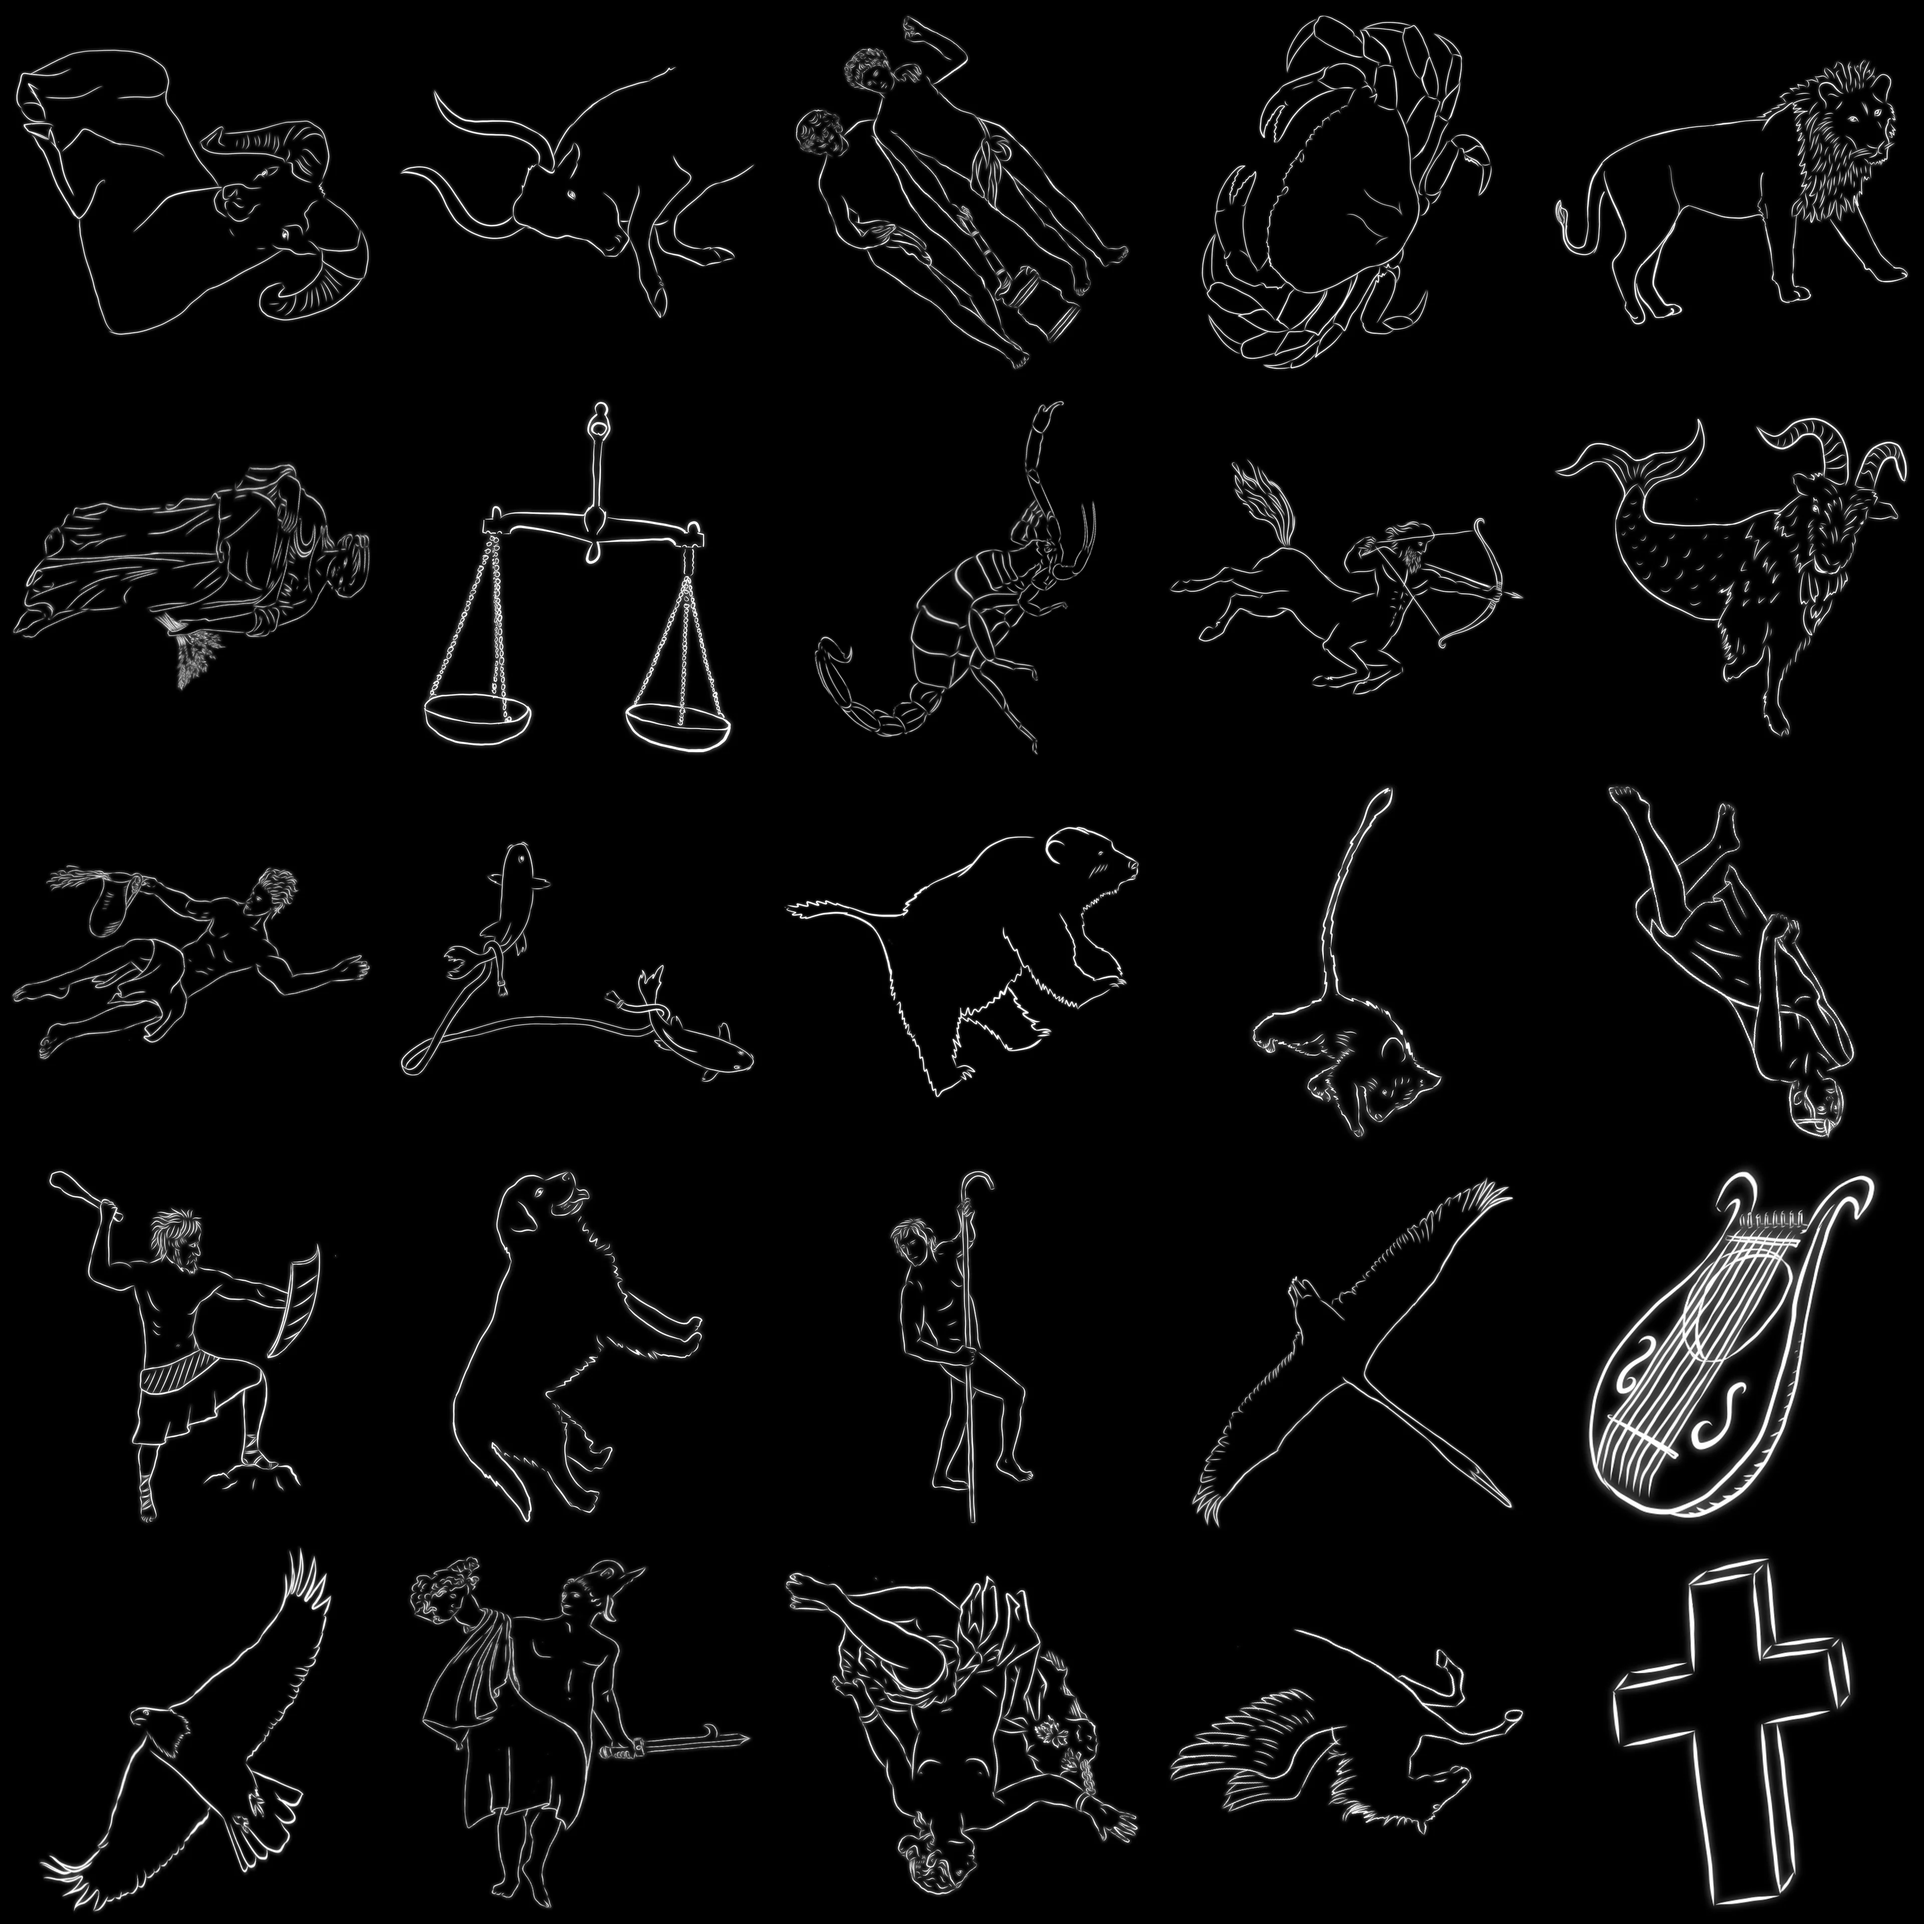
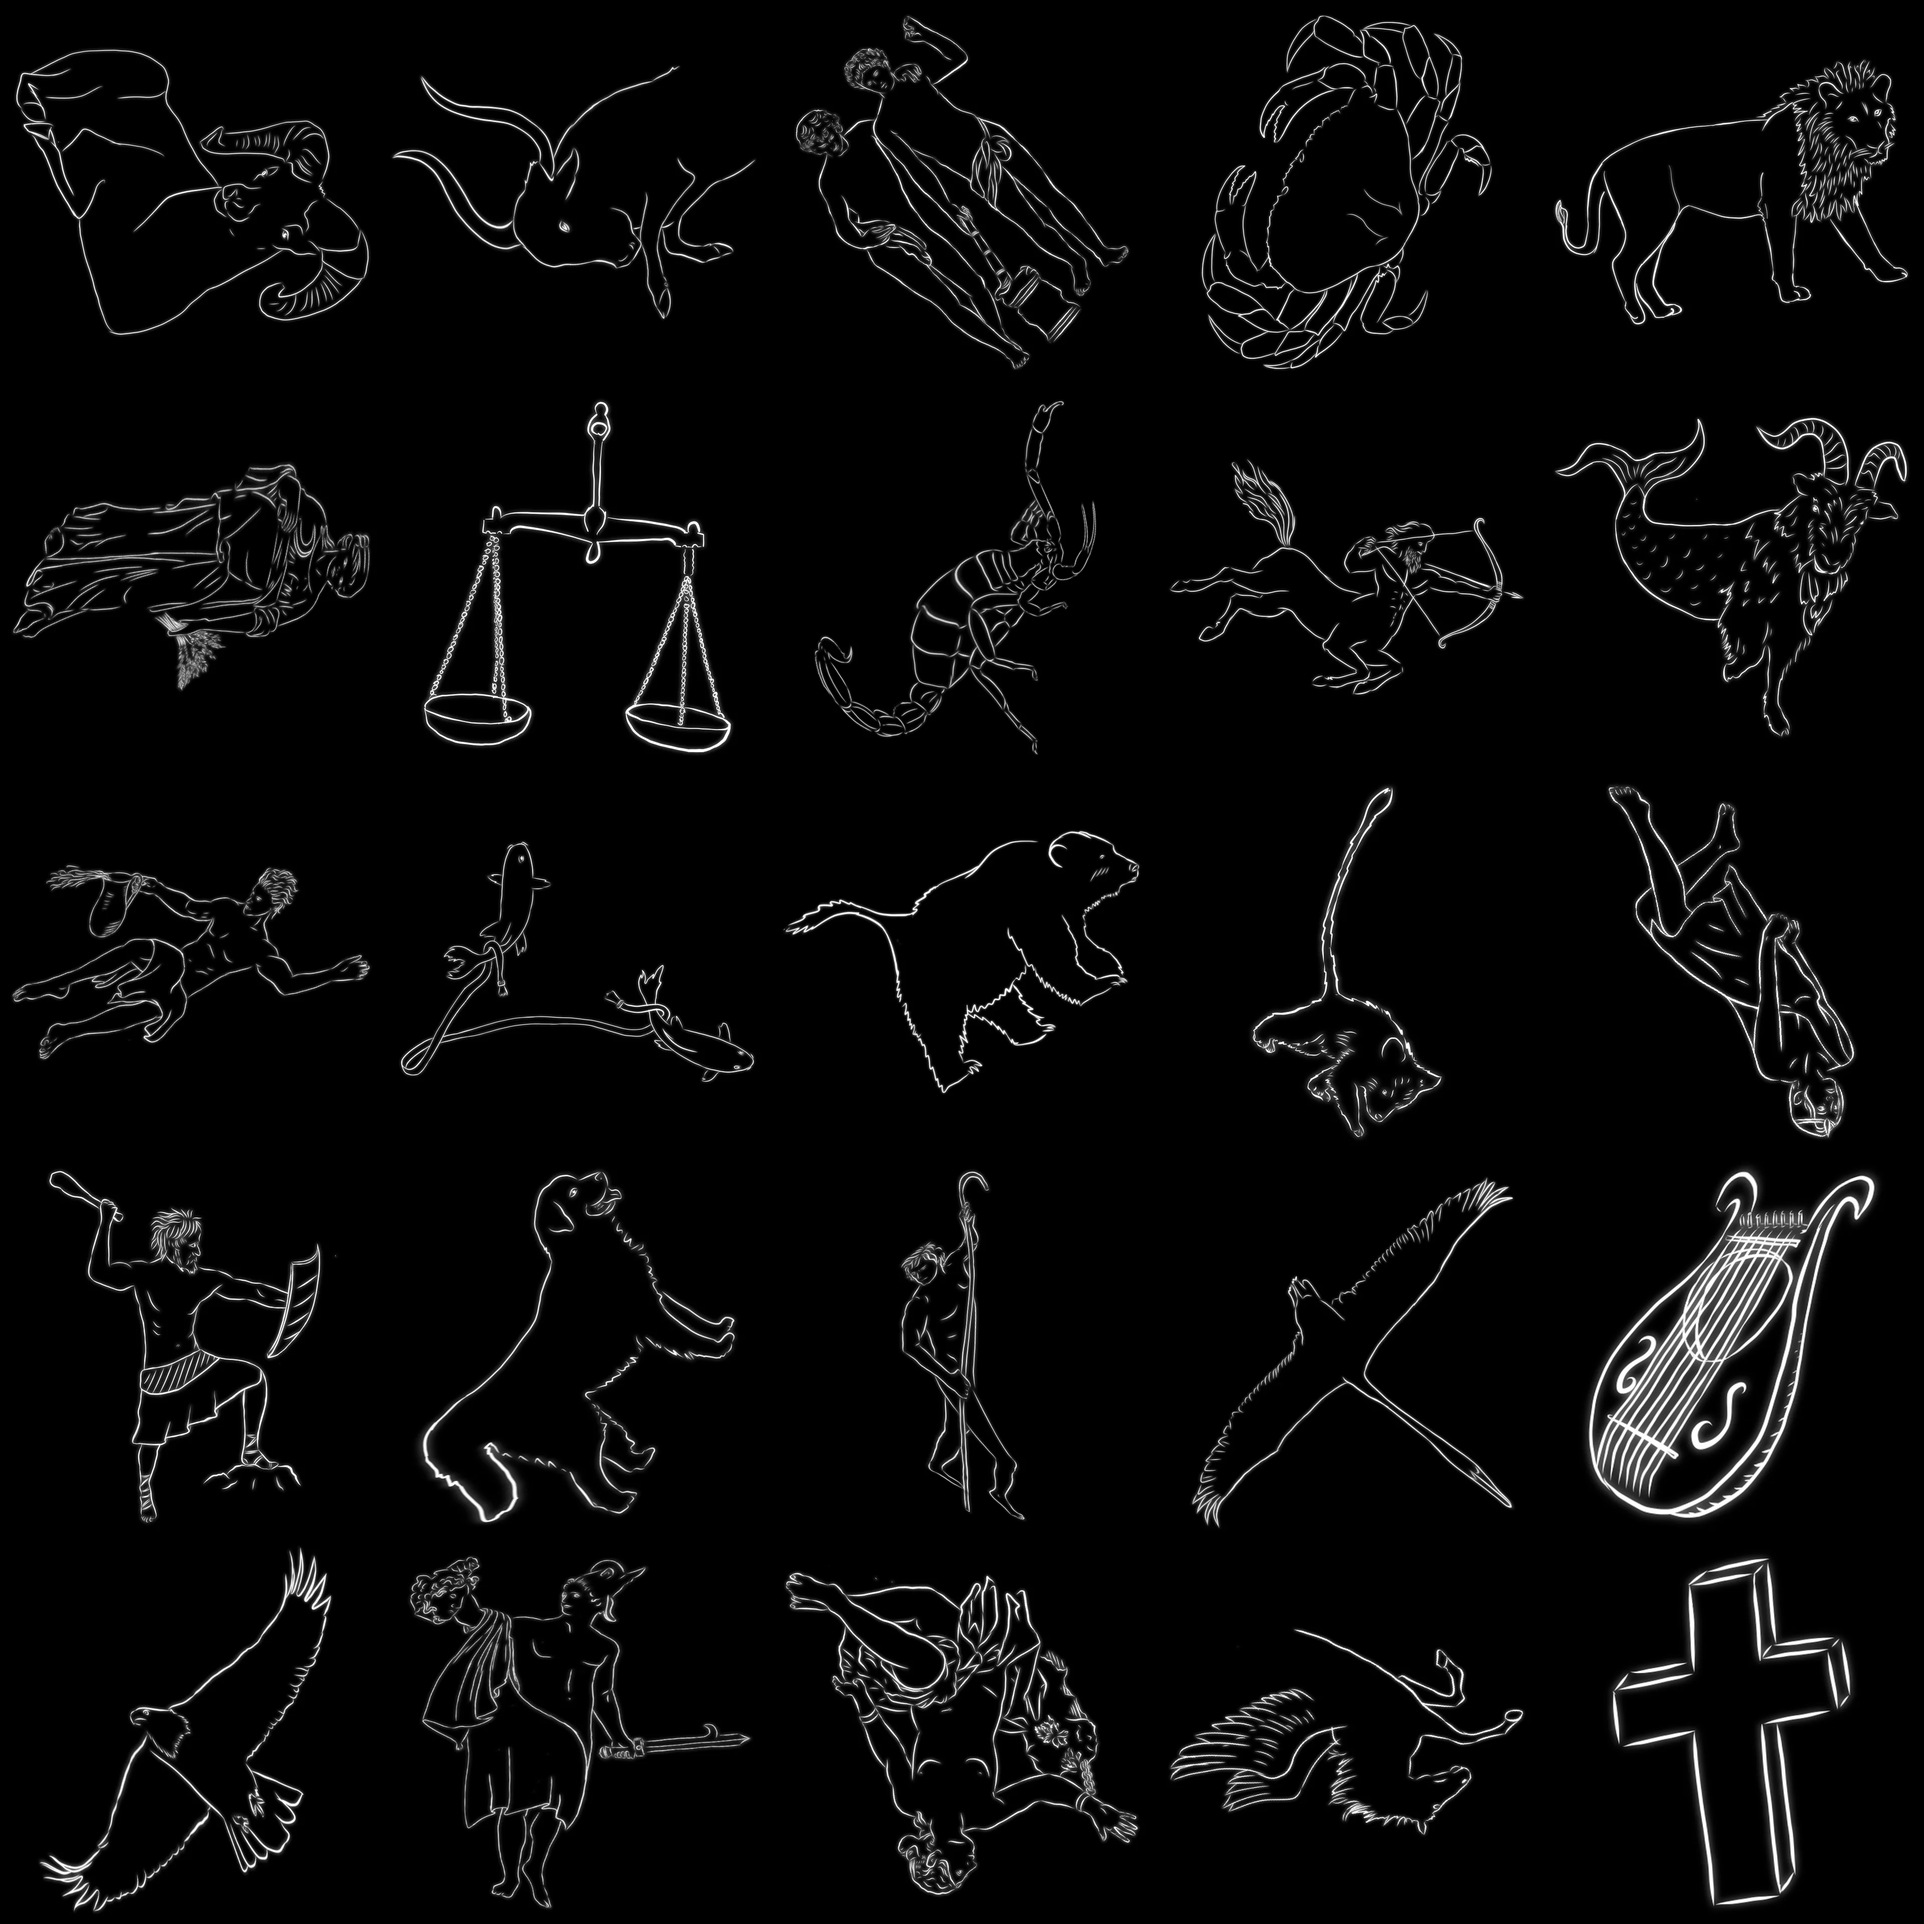
feat(sky): hand-match Taurus, Ursa Major, Canis Major and Boötes; reload once when a new worker takes over (#131)
The last four figures whose lines ended beside the drawing: Elnath at the bull's horn tip and Aldebaran at its eye; Alkaid at the bear's tail tip with Mizar and Alioth pinned; Aludra at the end of a stretched hind leg on a dog drawn with no tail; Arcturus at the herdsman's knee. Thirteen of twenty-five matched now, twelve left alone.

'perseus didn't land in 1.25' -- it had, but the page is drawn from the old worker's cache before the new worker installs and takes over, so every deploy reached a returning visitor only on the second reload. The page now reloads itself once when a new worker takes control of a page that already had one; a first visit is left alone. Two tests hold the listener, its guards, and the worker's skipWaiting and claim.

diff --git a/site/src/data/figures.js b/site/src/data/figures.js
@@ -18,4 +18,4 @@
 // Artwork: James Hedberg (CUNY-CCNY), CC BY 4.0.
 export const FIGURE_TILE = 768;
 export const FIGURE_COLS = 5;
-export const FIGURES = [{"a":"Ari","n":"Aries","i":0,"c":[[0.609548,0.609323,0.64085],[0.840153,0.331852,0.5369],[0.855481,0.47457,0.189954],[0.624876,0.752041,0.293905]]},{"a":"Tau","n":"Taurus","i":1,"c":[[0.070456,0.859002,0.585838],[0.607533,0.740666,0.604807],[0.659568,0.892455,0.078435],[0.122491,1.010791,0.059466]]},{"a":"Gem","n":"Gemini","i":2,"c":[[-0.408998,0.691031,0.577213],[-0.076036,0.903095,0.632868],[-0.106459,1.048004,0.262722],[-0.439421,0.83594,0.207067]]},{"a":"Cnc","n":"Cancer","i":3,"c":[[-0.726669,0.530032,0.621825],[-0.278863,0.856476,0.546848],[-0.436893,0.952024,0.019009],[-0.884698,0.62558,0.093986]]},{"a":"Leo","n":"Leo","i":4,"c":[[-0.951124,0.021242,0.646291],[-0.685115,0.554686,0.534228],[-0.909218,0.548046,-0.029346],[-1.175228,0.014602,0.082717]]},{"a":"Vir","n":"Virgo","i":5,"c":[[-0.777131,-0.765499,0.317088],[-0.928279,-0.003761,0.35494],[-1.01377,0.017662,-0.41756],[-0.862622,-0.744076,-0.455411]]},{"a":"Lib","n":"Libra","i":6,"c":[[-0.491927,-0.852549,-0.145956],[-0.776682,-0.632606,-0.133503],[-0.743482,-0.569641,-0.486418],[-0.458728,-0.789584,-0.498871]]},{"a":"Sco","n":"Scorpius","i":7,"c":[[0.040289,-1.061415,-0.163744],[-0.684707,-0.948618,-0.138088],[-0.649605,-0.578945,-0.771421],[0.075391,-0.691742,-0.797078]]},{"a":"Sgr","n":"Sagittarius","i":8,"c":[[0.646114,-0.969303,-0.357703],[0.07328,-0.996382,-0.189059],[-0.086223,-0.700454,-0.683325],[0.486612,-0.673374,-0.851969]]},{"a":"Cap","n":"Capricornus","i":9,"c":[[0.887475,-0.556537,-0.062794],[0.470739,-0.783712,-0.140459],[0.533606,-0.736815,-0.614967],[0.950342,-0.509639,-0.537302]]},{"a":"Aqr","n":"Aquarius","i":10,"c":[[1.085282,-0.248548,0.161614],[0.780661,-0.813419,0.213441],[0.554639,-0.746504,-0.385721],[0.859261,-0.181634,-0.437549]]},{"a":"Psc","n":"Pisces","i":11,"c":[[0.72837,0.545468,0.630214],[0.962485,-0.220649,0.657842],[1.16155,-0.187793,-0.117918],[0.927435,0.578324,-0.145546]]},{"a":"UMa","n":"Ursa Major","i":12,"c":[[-0.304622,-0.387385,0.982202],[-0.110352,0.491611,0.995506],[-0.907664,0.673527,0.619006],[-1.101935,-0.205469,0.605702]]},{"a":"UMi","n":"Ursa Minor","i":13,"c":[[0.18996,-0.162051,0.985159],[-0.079381,0.131081,1.021494],[-0.374119,-0.132407,0.962373],[-0.104777,-0.425539,0.926039]]},{"a":"Cas","n":"Cassiopeia","i":14,"c":[[0.337297,0.322571,0.971837],[0.321499,-0.11229,0.998673],[0.676879,-0.140688,0.747729],[0.692678,0.294174,0.720893]]},{"a":"Ori","n":"Orion","i":15,"c":[[-0.177642,1.002418,0.322829],[0.422743,1.000812,0.316925],[0.416805,0.988039,-0.283326],[-0.183579,0.989645,-0.277421]]},{"a":"CMa","n":"Canis Major","i":16,"c":[[-0.365301,0.941291,-0.204765],[-0.011543,0.974023,-0.192985],[0.006611,0.903002,-0.540809],[-0.347147,0.87027,-0.552589]]},{"a":"Boo","n":"Bootes","i":17,"c":[[-0.258574,-0.67661,0.809977],[-0.79453,-0.203677,0.888018],[-1.074852,-0.417973,0.261519],[-0.538896,-0.890906,0.183477]]},{"a":"Cyg","n":"Cygnus","i":18,"c":[[0.535953,-0.338664,0.842934],[0.131684,-0.637093,0.828808],[0.340736,-0.902673,0.45671],[0.745005,-0.604245,0.470836]]},{"a":"Lyr","n":"Lyra","i":19,"c":[[0.202759,-0.694822,0.626327],[0.087218,-0.784651,0.649252],[0.123318,-0.861984,0.52817],[0.238859,-0.772155,0.505245]]},{"a":"Aql","n":"Aquila","i":20,"c":[[0.580616,-0.682681,0.471756],[0.044963,-1.05086,0.398219],[0.181621,-1.122721,-0.237428],[0.717274,-0.754543,-0.163892]]},{"a":"Per","n":"Perseus","i":21,"c":[[0.171281,0.528212,0.880801],[0.587609,0.217272,0.777897],[0.792595,0.594446,0.467537],[0.376266,0.905387,0.570442]]},{"a":"And","n":"Andromeda","i":22,"c":[[0.618538,0.487248,0.695278],[0.585984,0.016034,0.995342],[0.915528,-0.24287,0.624517],[0.948082,0.228345,0.324453]]},{"a":"Peg","n":"Pegasus","i":23,"c":[[1.034344,0.038369,0.900054],[0.502619,-0.701543,0.706174],[0.717679,-0.619562,-0.196499],[1.249403,0.12035,-0.002619]]},{"a":"Cru","n":"Crux","i":24,"c":[[-0.530793,-0.133954,-0.835451],[-0.542647,-0.016721,-0.819698],[-0.448265,0.002197,-0.889457],[-0.43641,-0.115036,-0.90521]]}];
+export const FIGURES = [{"a":"Ari","n":"Aries","i":0,"c":[[0.609548,0.609323,0.64085],[0.840153,0.331852,0.5369],[0.855481,0.47457,0.189954],[0.624876,0.752041,0.293905]]},{"a":"Tau","n":"Taurus","i":1,"c":[[0.068854,0.860099,0.583372],[0.601945,0.742641,0.6022],[0.653594,0.893304,0.079735],[0.120503,1.010762,0.060907]]},{"a":"Gem","n":"Gemini","i":2,"c":[[-0.408998,0.691031,0.577213],[-0.076036,0.903095,0.632868],[-0.106459,1.048004,0.262722],[-0.439421,0.83594,0.207067]]},{"a":"Cnc","n":"Cancer","i":3,"c":[[-0.726669,0.530032,0.621825],[-0.278863,0.856476,0.546848],[-0.436893,0.952024,0.019009],[-0.884698,0.62558,0.093986]]},{"a":"Leo","n":"Leo","i":4,"c":[[-0.951124,0.021242,0.646291],[-0.685115,0.554686,0.534228],[-0.909218,0.548046,-0.029346],[-1.175228,0.014602,0.082717]]},{"a":"Vir","n":"Virgo","i":5,"c":[[-0.777131,-0.765499,0.317088],[-0.928279,-0.003761,0.35494],[-1.01377,0.017662,-0.41756],[-0.862622,-0.744076,-0.455411]]},{"a":"Lib","n":"Libra","i":6,"c":[[-0.491927,-0.852549,-0.145956],[-0.776682,-0.632606,-0.133503],[-0.743482,-0.569641,-0.486418],[-0.458728,-0.789584,-0.498871]]},{"a":"Sco","n":"Scorpius","i":7,"c":[[0.040289,-1.061415,-0.163744],[-0.684707,-0.948618,-0.138088],[-0.649605,-0.578945,-0.771421],[0.075391,-0.691742,-0.797078]]},{"a":"Sgr","n":"Sagittarius","i":8,"c":[[0.646114,-0.969303,-0.357703],[0.07328,-0.996382,-0.189059],[-0.086223,-0.700454,-0.683325],[0.486612,-0.673374,-0.851969]]},{"a":"Cap","n":"Capricornus","i":9,"c":[[0.887475,-0.556537,-0.062794],[0.470739,-0.783712,-0.140459],[0.533606,-0.736815,-0.614967],[0.950342,-0.509639,-0.537302]]},{"a":"Aqr","n":"Aquarius","i":10,"c":[[1.085282,-0.248548,0.161614],[0.780661,-0.813419,0.213441],[0.554639,-0.746504,-0.385721],[0.859261,-0.181634,-0.437549]]},{"a":"Psc","n":"Pisces","i":11,"c":[[0.72837,0.545468,0.630214],[0.962485,-0.220649,0.657842],[1.16155,-0.187793,-0.117918],[0.927435,0.578324,-0.145546]]},{"a":"UMa","n":"Ursa Major","i":12,"c":[[-0.298875,-0.422017,0.987747],[-0.097525,0.489009,1.001535],[-0.92389,0.677553,0.611316],[-1.12524,-0.233472,0.597528]]},{"a":"UMi","n":"Ursa Minor","i":13,"c":[[0.18996,-0.162051,0.985159],[-0.079381,0.131081,1.021494],[-0.374119,-0.132407,0.962373],[-0.104777,-0.425539,0.926039]]},{"a":"Cas","n":"Cassiopeia","i":14,"c":[[0.337297,0.322571,0.971837],[0.321499,-0.11229,0.998673],[0.676879,-0.140688,0.747729],[0.692678,0.294174,0.720893]]},{"a":"Ori","n":"Orion","i":15,"c":[[-0.177642,1.002418,0.322829],[0.422743,1.000812,0.316925],[0.416805,0.988039,-0.283326],[-0.183579,0.989645,-0.277421]]},{"a":"CMa","n":"Canis Major","i":16,"c":[[-0.394582,0.938568,-0.205807],[-0.041607,0.971227,-0.194053],[-0.023493,0.900363,-0.541107],[-0.376469,0.867704,-0.552861]]},{"a":"Boo","n":"Bootes","i":17,"c":[[-0.248623,-0.681048,0.814805],[-0.813545,-0.182556,0.897065],[-1.109017,-0.408433,0.236707],[-0.544095,-0.906925,0.154447]]},{"a":"Cyg","n":"Cygnus","i":18,"c":[[0.535953,-0.338664,0.842934],[0.131684,-0.637093,0.828808],[0.340736,-0.902673,0.45671],[0.745005,-0.604245,0.470836]]},{"a":"Lyr","n":"Lyra","i":19,"c":[[0.202759,-0.694822,0.626327],[0.087218,-0.784651,0.649252],[0.123318,-0.861984,0.52817],[0.238859,-0.772155,0.505245]]},{"a":"Aql","n":"Aquila","i":20,"c":[[0.580616,-0.682681,0.471756],[0.044963,-1.05086,0.398219],[0.181621,-1.122721,-0.237428],[0.717274,-0.754543,-0.163892]]},{"a":"Per","n":"Perseus","i":21,"c":[[0.171281,0.528212,0.880801],[0.587609,0.217272,0.777897],[0.792595,0.594446,0.467537],[0.376266,0.905387,0.570442]]},{"a":"And","n":"Andromeda","i":22,"c":[[0.618538,0.487248,0.695278],[0.585984,0.016034,0.995342],[0.915528,-0.24287,0.624517],[0.948082,0.228345,0.324453]]},{"a":"Peg","n":"Pegasus","i":23,"c":[[1.034344,0.038369,0.900054],[0.502619,-0.701543,0.706174],[0.717679,-0.619562,-0.196499],[1.249403,0.12035,-0.002619]]},{"a":"Cru","n":"Crux","i":24,"c":[[-0.530793,-0.133954,-0.835451],[-0.542647,-0.016721,-0.819698],[-0.448265,0.002197,-0.889457],[-0.43641,-0.115036,-0.90521]]}];

diff --git a/site/src/app.js b/site/src/app.js
@@ -1410,6 +1410,21 @@ async function boot() {
   setInterval(render, 30000);        // Polaris moves ~0.125 dial-minutes in 30 s
 
   if ('serviceWorker' in navigator) {
+    // A DEPLOY MUST LAND ON THE FIRST RELOAD, NOT THE SECOND. The page is
+    // drawn from the old worker's cache before the browser notices a new
+    // sw.js; the new worker then installs, evicts the old cache and takes
+    // over -- and the page keeps showing what it already loaded. Reported as
+    // "perseus didn't land in 1.25": it had, and one more reload would have
+    // shown it. So when a new worker takes control of a page that already
+    // had one, the page reloads itself, once. A first visit has no previous
+    // controller and is left alone.
+    const hadController = Boolean(navigator.serviceWorker.controller);
+    let reloadedForUpdate = false;
+    navigator.serviceWorker.addEventListener('controllerchange', () => {
+      if (!hadController || reloadedForUpdate) return;
+      reloadedForUpdate = true;
+      window.location.reload();
+    });
     navigator.serviceWorker.register('sw.js').catch(() => {});
   }
 }

diff --git a/site/sw.js b/site/sw.js
@@ -17,7 +17,7 @@
 //
 // This is a CACHE KEY, not the release stamp. build-version.json stays where
 // it is; the build advances once per release on the default branch.
-const VERSION = '0.0.0.1.25';
+const VERSION = '0.0.0.1.26';
 const CACHE = `evo-polaris-${VERSION}`;
 
 const ASSETS = [

diff --git a/scripts/build-constellation-art.py b/scripts/build-constellation-art.py
@@ -144,8 +144,8 @@ HAND-MATCHED, WHERE THE DRAWING'S PROPORTIONS ARE NOT THE SKY'S
     that grew to reach its stars keeps its resolution.
 
     Every match prints how far it stretched any part of the drawing, and
-    MAX_STRETCH refuses one that asks too much. Nine of the twenty-five
-    are matched; the other sixteen already sit on their stars -- checked
+    MAX_STRETCH refuses one that asks too much. Thirteen of the twenty-five
+    are matched; the other twelve already sit on their stars -- checked
     one by one against the stars the app draws lines between, by anatomy
     as well as by number, because a star correctly inside an outlined body
     counts as far from ink and would fool the number alone.
